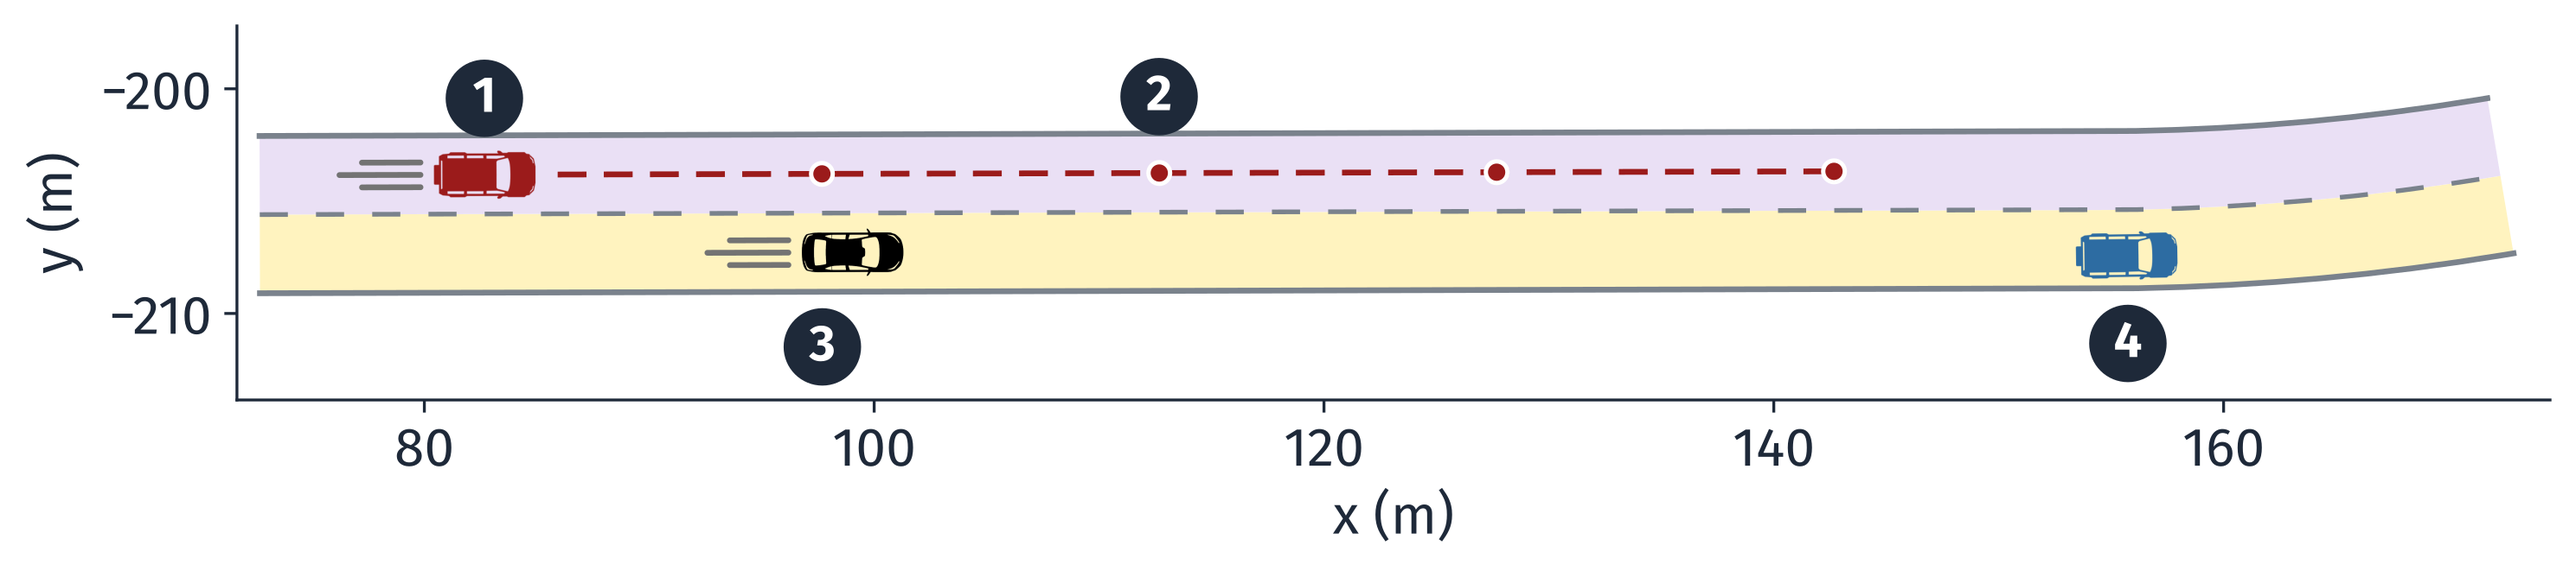
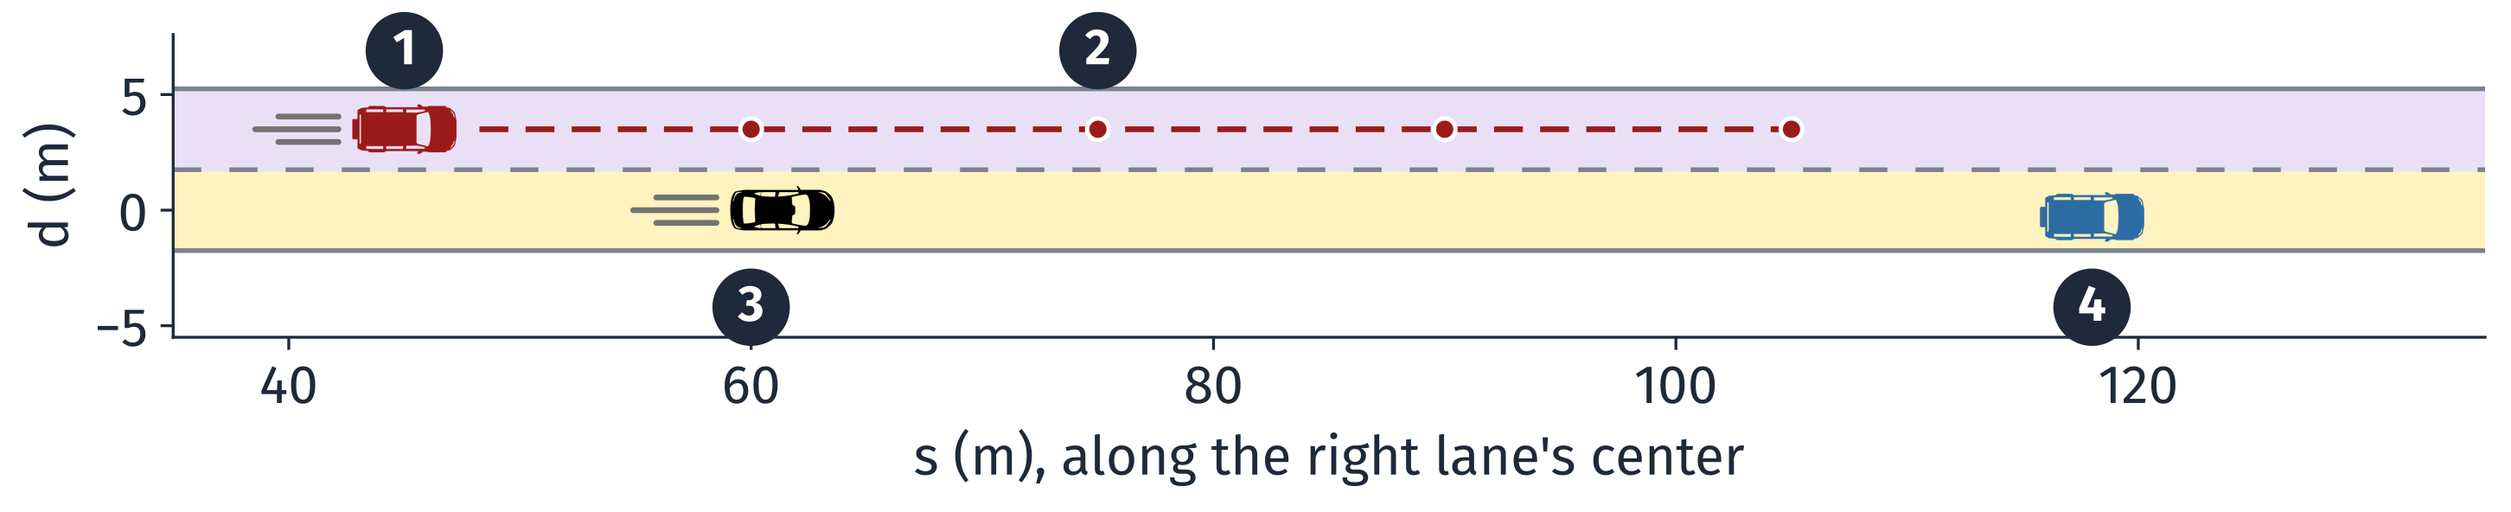
L10: the moving-car scene drawn along the road in s and d

Changed region(s): [[0.0, 0.0304, 0.9917, 0.8209], [0.3719, 0.8514, 0.7128, 0.9426]]

diff --git a/docs/source/lectures/lecture10/l10_lecture.rst b/docs/source/lectures/lecture10/l10_lecture.rst
@@ -1060,7 +1060,7 @@ Plan Around a Car That Moves: Last Class Closed the Lane Instead
 ~~~~~~~~~~~~~~~~~~~~~~~~~~~~~~~~~~~~~~~~~~~~~~~~~~~~~~~~~~~~~~~~
 
 .. figure:: /_static/images/L10/traj_scene.png
-   :alt: A top view of the two-lane road, to scale: the right lane light yellow, the left lane light purple, a dashed line between them. In the left lane, at the left, a dark red car, car B, dark tag 1. A dark red dashed line runs ahead of it along the left lane's center, with a dark red dot every second for four seconds, dark tag 2 above the second dot. In the right lane the black AV, tag 3, below the first dots, and far ahead a blue parked car, tag 4. Short gray lines trail behind car B and the AV to show that they move; the parked car has none.
+   :alt: The two-lane road drawn along its length, to scale: s in meters along the right lane's center, from 35 to 135, across; d in meters to its left, up. The right lane light yellow, the left lane light purple, a dashed line between them. In the left lane, at s = 45, a dark red car, car B, dark tag 1. A dark red dashed line runs ahead of it along the left lane's center, with a dark red dot every second for four seconds, at s = 60, 75, 90 and 105, dark tag 2 above the second dot. In the right lane the black AV at s = 60, tag 3, below the first dot, and far ahead a blue parked car at s = 118, tag 4. Short gray lines trail behind car B and the AV to show that they move; the parked car has none.
    :width: 95%
    :align: center
 

diff --git a/docs/source/changelog/changelog.rst b/docs/source/changelog/changelog.rst
@@ -29,8 +29,9 @@ All notable changes to the ENPM818Z Fall 2026 course documentation are recorded 
      part after :math:`s_0 + L`; writing all 31 candidates is now its own
      section.
    - **L10, figures:** motion lines behind every moving car; car B, the
-     moving car in the left lane, in dark red; the two timings drawn along
-     the road in :math:`s` and :math:`d`, with the collision circles.
+     moving car in the left lane, in dark red; the moving-car scene and the
+     two timings drawn along the road in :math:`s` and :math:`d`, the timings
+     with the collision circles.
    - **L10, the two timings, in three steps:** make a trajectory from a
      path and a speed; check both against car B, moment by moment; see why
      one crashes, from when each reaches the lane line.
